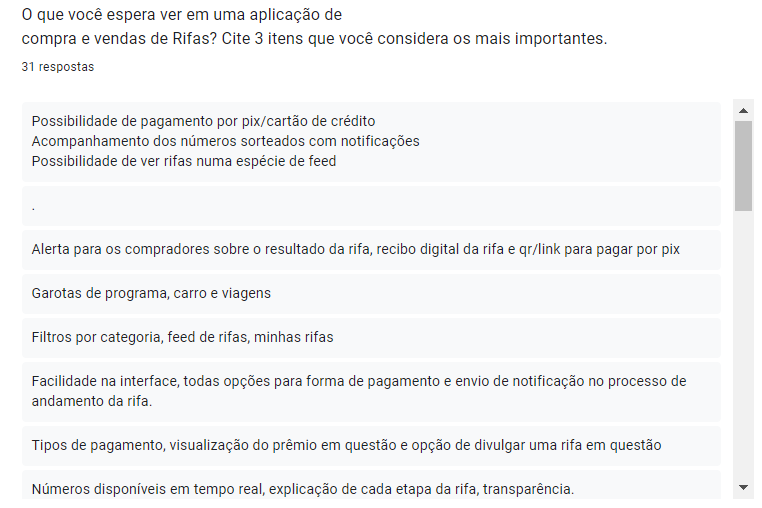
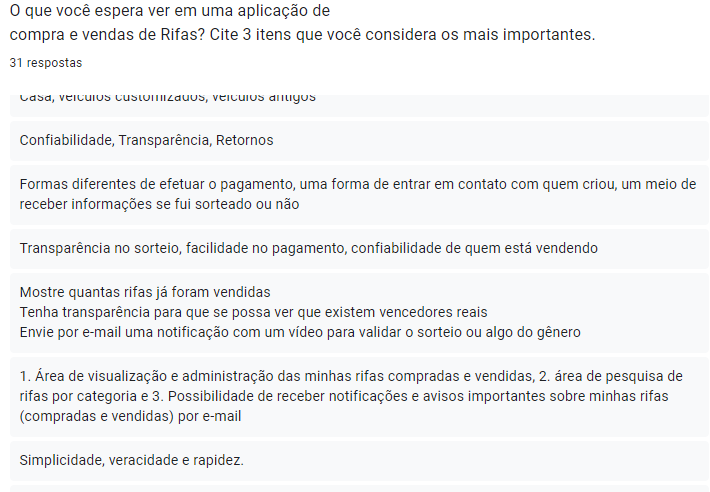
Adiciona resultados questionario

diff --git a/docs/Base/tecnicasElicitacao/questionario.md b/docs/Base/tecnicasElicitacao/questionario.md
@@ -14,7 +14,7 @@ Para a realização do questionário, a equipe optou por utilizar a ferramenta G
 
 ### 3.1 Pergunta 1
 
-![Imagem](../assets/questinario/e-rifas_Pergunta1.png)
+![Imagem](../../assets/questinario/e-rifas_Pergunta1.png)
 
 <center>
 
@@ -24,7 +24,7 @@ Figura 1: Pergunta 1 questionário   -> Fonte: Elaboração própria
 
 ### 3.2 Pergunta 2
 
-![Imagem](../assets/questinario/e-rifas_Pergunta2.png)
+![Imagem](../../assets/questinario/e-rifas_Pergunta2.png)
 
 <center>
 
@@ -34,7 +34,7 @@ Figura 2: Pergunta 2 questionário   -> Fonte: Elaboração própria
 
 ### 3.3 Pergunta 3
 
-![Imagem](../assets/questinario/e-rifas_Pergunta3.png)
+![Imagem](../../assets/questinario/e-rifas_Pergunta3.png)
 
 <center>
 
@@ -44,7 +44,7 @@ Figura 3: Pergunta 3 questionário   -> Fonte: Elaboração própria
 
 ### 3.4 Pergunta 4
 
-![Imagem](../assets/questinario/e-rifas_Pergunta4.png)
+![Imagem](../../assets/questinario/e-rifas_Pergunta4.png)
 
 <center>
 
@@ -54,7 +54,7 @@ Figura 4: Pergunta 4 questionário   -> Fonte: Elaboração própria
 
 ### 3.5 Pergunta 5
 
-![Imagem](../assets/questinario/e-rifas_Pergunta5.png)
+![Imagem](../../assets/questinario/e-rifas_Pergunta5.png)
 
 <center>
 
@@ -64,7 +64,7 @@ Figura 5: Pergunta 5 questionário   -> Fonte: Elaboração própria
 
 ### 3.6 Pergunta 6
 
-![Imagem](../assets/questinario/e-rifas_Pergunta6.png)
+![Imagem](../../assets/questinario/e-rifas_Pergunta6.png)
 
 <center>
 
@@ -74,7 +74,7 @@ Figura 6: Pergunta 6 questionário   -> Fonte: Elaboração própria
 
 ### 3.7 Pergunta 7
 
-![Imagem](../assets/questinario/e-rifas_Pergunta7.png)
+![Imagem](../../assets/questinario/e-rifas_Pergunta7.png)
 
 <center>
 
@@ -84,7 +84,7 @@ Figura 7: Pergunta 7 questionário   -> Fonte: Elaboração própria
 
 ### 3.8 Pergunta 8
 
-![Imagem](../assets/questinario/e-rifas_Pergunta8.png)
+![Imagem](../../assets/questinario/e-rifas_Pergunta8.png)
 
 <center>
 
@@ -94,7 +94,7 @@ Figura 8: Pergunta 8 questionário   -> Fonte: Elaboração própria
 
 ### 3.9 Pergunta 9
 
-![Imagem](../assets/questinario/e-rifas_Pergunta9.png)
+![Imagem](../../assets/questinario/e-rifas_Pergunta9.png)
 
 <center>
 
@@ -104,7 +104,7 @@ Figura 9: Pergunta 9 questionário   -> Fonte: Elaboração própria
 
 ### 3.10 Pergunta 10
 
-![Imagem](../assets/questinario/e-rifas_Pergunta10.png)
+![Imagem](../../assets/questinario/e-rifas_Pergunta10.png)
 
 <center>
 
@@ -114,7 +114,7 @@ Figura 10: Pergunta 10 questionário   -> Fonte: Elaboração própria
 
 ### 3.11 Pergunta 11
 
-![Imagem](../assets/questinario/e-rifas_Pergunta11.png)
+![Imagem](../../assets/questinario/e-rifas_Pergunta11.png)
 
 <center>
 
@@ -124,7 +124,7 @@ Figura 11: Pergunta 11 questionário   -> Fonte: Elaboração própria
 
 ### 3.12 Pergunta 12
 
-![Imagem](../assets/questinario/e-rifas_Pergunta12.png)
+![Imagem](../../assets/questinario/e-rifas_Pergunta12.png)
 
 <center>
 
@@ -136,9 +136,20 @@ Figura 12: Pergunta 12 questionário   -> Fonte: Elaboração própria
 
 A partir das respostas recebidas conseguimos chegar aos seguintes requisitos:
 
-| ID  | Requisito                                                                               | 
-| --- | --------------------------------------------------------------------------------------- | 
-| Q01 | O usuário deve conseguir                       | 
+| ID  | Descrição                                                  | Tipo de Requisito |
+| --- | -----------------------------------------------------------| ----------------- |
+| Q01 |  O usuário deve  adquirir pontos ao comprar uma rifa       | Funcional         |
+| Q02 |  O usuário deve poder utilizar seus pontos para ganhar vantagens na aplicação        | Funcional         |
+| Q03 |  O usuário deve poder adicionar créditos no sistema por pix ou cartão        | Funcional         |
+| Q04 |  O usuário deve poder comprar rifas utilizando os créditos adicionados no app        | Funcional         |
+| Q05 |  O usuário deve poder comprar rifas com crétidos adicionados no app        | Funcional         |
+| Q06 |  O usuário deve receber notificações de sorteios em que está participando        | Funcional         |
+| Q07 |  O usuário deve poder visualizar suas rifas compradas        | Funcional         |
+| Q08 |  O usuário deve ver em destaque na aplicação rifas beneficentes         | Funcional         |
+| Q09 |  O usuário deve poder visualizar quantos números de uma determinada rifa foram vendidos antes de comprá-la      | Funcional         |
+| Q10 |  O sistema deve ser seguro     | Não Funcional         |
+| Q11 |  O sistema deve possuir uma interface simples e intuitiva     | Não Funcional         |
+| Q12 |  O sistema deve garantir a veracidade das rifas     | Não Funcional         |
 
 ## Referências
 
@@ -150,3 +161,4 @@ A partir das respostas recebidas conseguimos chegar aos seguintes requisitos:
 |--------|--------|----------------------|-----------------|-------------|
 | 02-Nov | 0.1    | Construção da Página | Lucas Pimentel |  |
 | 02-Nov | 0.2    | Adicona introdução e perguntas | Lucas Pimentel |  |
+| 03-Nov | 0.3    | Adicona resultados | Lucas Pimentel |  |

diff --git a/docs/Base/tecnicasElicitacao/observacao.md b/docs/Base/tecnicasElicitacao/observacao.md
@@ -14,25 +14,25 @@
 
 <center>
 
-![Imagem](/docs/assets/observacao1.png)
+![Imagem](../../assets/observacao1.png)
 
-Exemplo 1 retirado do Discord
-
-</center>
-
-<center>
-
-![Imagem](/docs/assets/observacao2.png)
-
-Exemplo 2 retirado do Discord
+Figura 1 -> Fonte: https://mk7projects.com/
 
 </center>
 
 <center>
 
-![Imagem](/docs/assets/observacao3.png)
+![Imagem](../../assets/observacao2.png)
 
-Exemplo 3 retirado do Discord
+Figura 2 -> Fonte: https://mk7projects.com/
+
+</center>
+
+<center>
+
+![Imagem](../../assets/observacao3.png)
+
+Figura 3 -> Fonte: https://rifatech.com/
 
 </center>
 

diff --git a/docs/_sidebar.md b/docs/_sidebar.md
@@ -16,7 +16,8 @@
         - Elicitação
           - [Personas](/Base/personas-perfilUsuario.md)
           - [Brainstorming](/Base/tecnicasElicitacao/brainstorm.md)
-          - [Questionário](/Base/questionario.md)
+          - [Questionário](/Base/tecnicasElicitacao/questionario.md)
+          - [Obervação](/Base/tecnicasElicitacao/observacao.md)
         - Priorização
           - [MoSCoW](Base/tecnicasPriorizacao/moscow.md)
         - Modelagem
